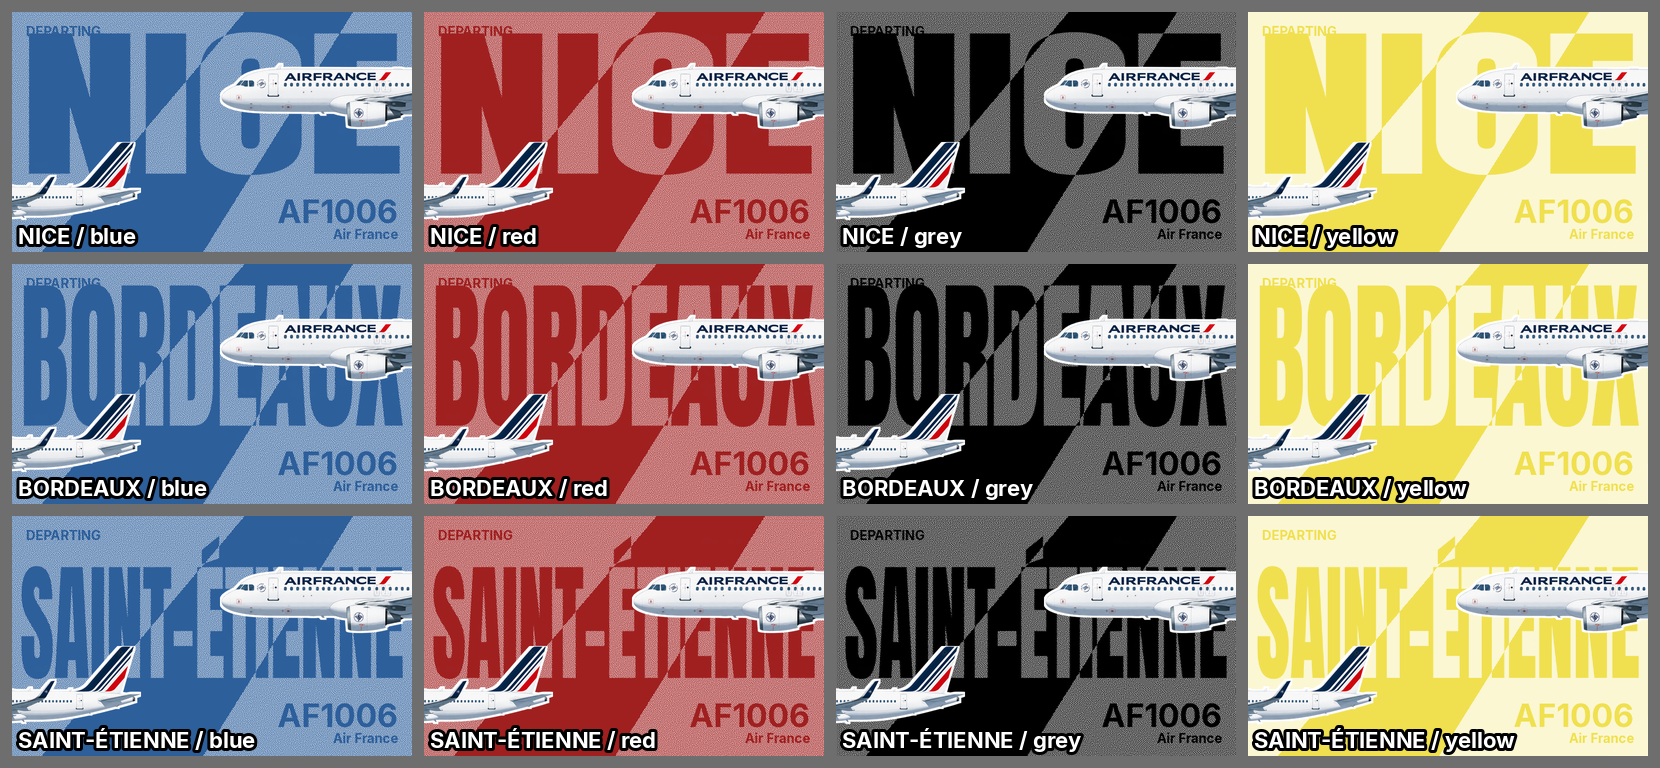
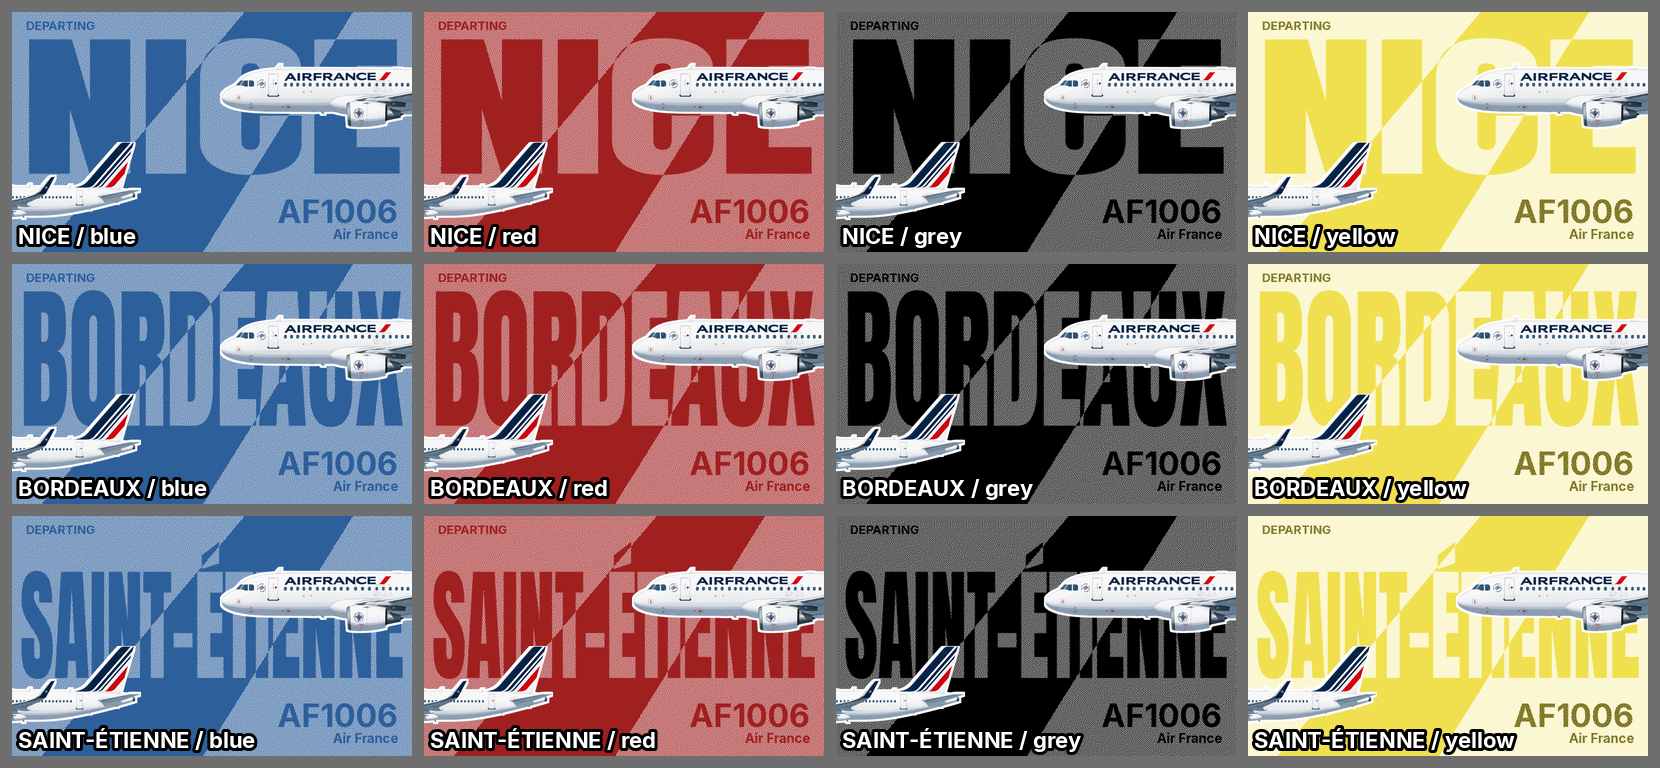
Mock-up: darker small text for yellow, state label clear of the lettering
Claude-Session: https://claude.ai/code/session_019w4bpjg26CtsBp1Ywmgh2a

diff --git a/design-exploration/plane-screen/mock_landscape_diagonal.py b/design-exploration/plane-screen/mock_landscape_diagonal.py
@@ -36,12 +36,22 @@ def field_for(idx, fraction):
     return full.crop((0, 0, W, H))
 
 
-def labels(c, ink):
-    d = ImageDraw.Draw(c)
-    d.text((28, 22), t.v.STATE, font=ImageFont.truetype(g.FONT, 26), fill=ink)
+def label_fill(idx):
+    """Plain ink, except yellow: it is dithered toward black so the small text
+    separates from the light yellow field."""
+    if idx == pf.IDX_YELLOW:
+        return t.darkened_ink(idx, 0.45).crop((0, 0, W, H))
+    return Image.new("RGB", (W, H), t.ink_rgb(idx))
+
+
+def labels(c, idx):
+    layer = Image.new("L", (W, H), 0)
+    d = ImageDraw.Draw(layer)
+    d.text((28, 12), t.v.STATE, font=ImageFont.truetype(g.FONT, 24), fill=255)
     for text, size, top in ((t.v.FLIGHT, 64, 360), (t.v.AIRLINE, 26, 428)):
         font = ImageFont.truetype(g.FONT, size)
-        d.text((W - 28 - font.getlength(text), top), text, font=font, fill=ink)
+        d.text((W - 28 - font.getlength(text), top), text, font=font, fill=255)
+    c.paste(label_fill(idx), (0, 0), layer)
 
 
 def build(name, idx, fraction, layout):
@@ -52,7 +62,7 @@ def build(name, idx, fraction, layout):
     mask = band_mask()
     c.paste(solid, (0, 0), mask)
     tone = Image.composite(field, solid, mask)
-    g.giant_text(c, [name], (16, 40, W - 16, 340), tone, heavy=1, stretch=True)
+    g.giant_text(c, [name], (16, 52, W - 16, 340), tone, heavy=1, stretch=True)
     if layout == "whole":
         t.v.paste_with_halo(c, t.v.load_plane(560), (W / 2, 190), halo=9)
     else:
@@ -64,7 +74,7 @@ def build(name, idx, fraction, layout):
         tail = small.crop((int(small.width * 0.5), 0, small.width, small.height))
         tail = tail.crop(tail.getbbox())
         t.v.halo_paste(c, tail, (-12, H - 24 - tail.height), halo=9)
-    labels(c, ink)
+    labels(c, idx)
     return c
 
 

diff --git a/design-exploration/plane-screen/mock_diagonal.py b/design-exploration/plane-screen/mock_diagonal.py
@@ -116,7 +116,7 @@ def main_colours(out_dir, font_dir):
             solid = Image.new("RGB", (W, H), t.ink_rgb(idx))
             field = t.lightened_field(idx, fraction) if fraction else t.field(idx, True)
             tone = two_tone(solid, field, mask)  # light field shade inside the band, not white
-            c = build(field, solid, tone, t.ink_rgb(idx), layout=os.environ.get("MOCK_LAYOUT", "nose_tail"))
+            c = build(field, solid, tone, t.darkened_ink(idx, 0.45) if idx == pf.IDX_YELLOW else t.ink_rgb(idx), layout=os.environ.get("MOCK_LAYOUT", "nose_tail"))
             c.save(os.path.join(out_dir, "col-%d-%d.png" % (row + 1, col + 1)))
             thumb = c.resize((tw, th), Image.LANCZOS)
             label = "%s / %s" % (city, name)

diff --git a/.planning/notes/plane-screen-design-brief.md b/.planning/notes/plane-screen-design-brief.md
@@ -103,8 +103,11 @@ tries in `diagonal-band.png` and `diagonal-band-colours.png`). The flight
 number and airline are right-aligned at the bottom right, in the pairing's
 plain ink on the light field, outside the band (`diagonal-band-flight-right-*.png`,
 nose-and-tail and whole-aircraft layouts); centred inside the band or across its
-edge lost contrast. Remaining weakness: yellow ink on the light yellow field is
-faint for the flight number. Not yet shown in landscape.
+edge lost contrast. For yellow, the small text (state, flight, airline) is dithered
+toward black (about 45%) so it separates from the light yellow field; the giant
+lettering stays plain yellow. Landscape versions of both layouts with the band
+are in `landscape-diagonal-nose-tail.png` and `landscape-diagonal-whole.png`;
+there the state label sits above the lettering so the two no longer touch.
 
 ### Departure vs arrival
 
